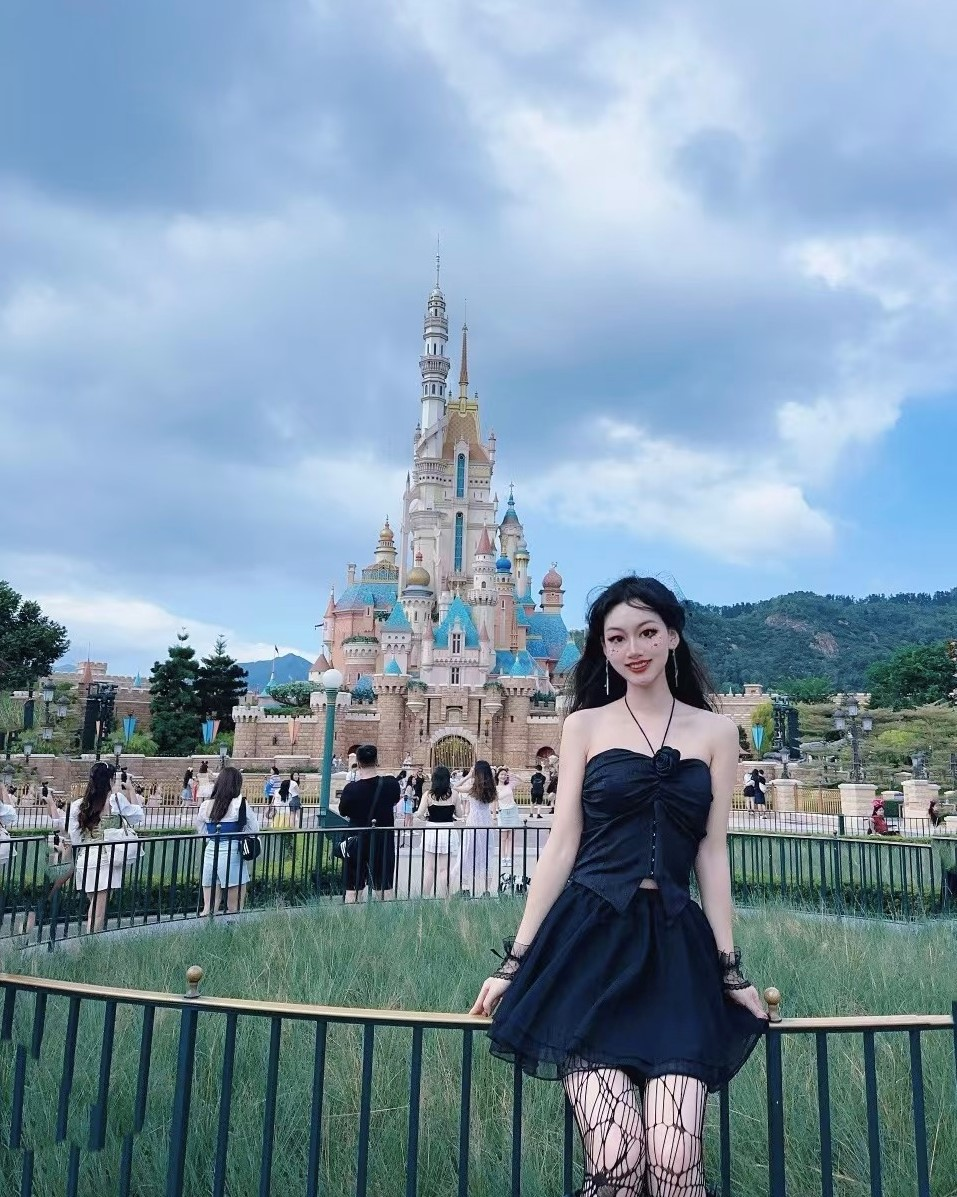
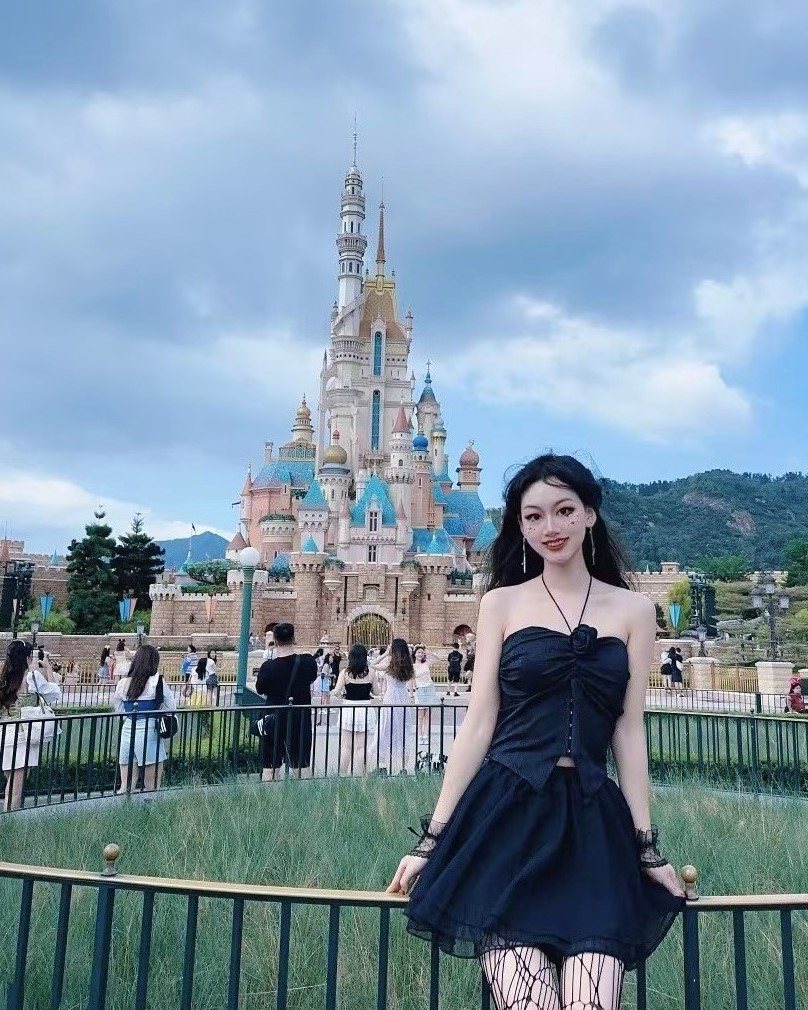
edit image

diff --git a/index.html b/index.html
@@ -455,7 +455,7 @@
                     </div>
                     <div class="card-body">
                         <div class="card-photo">
-                            <img src="https://quintailidev.github.io/kaixin-birthday/images/disney_castle3.jpg?v=3"
+                            <img src="https://quintailidev.github.io/kaixin-birthday/images/disney_castle1.jpg?v=3"
                                 alt="迪士尼城堡前的回忆" loading="lazy">
                         </div>
                         <div class="card-text">
@@ -522,7 +522,7 @@
                         </div>
                         <div class="card-text">
                             <p>
-                                那天泰餐的味道我已经记不太清了，但我送你口红，你看到我写的卡片，感动的哭了的那一刻，我记得特别清楚。
+                                那天泰餐的味道我记不太清了，但我送你口红，你看到卡片后哭了的那一刻，我记的很清楚。
                                 我也特别感动，因为感到自己的心意有被你看到，得到了反馈的感觉。
                             </p>
                         </div>
